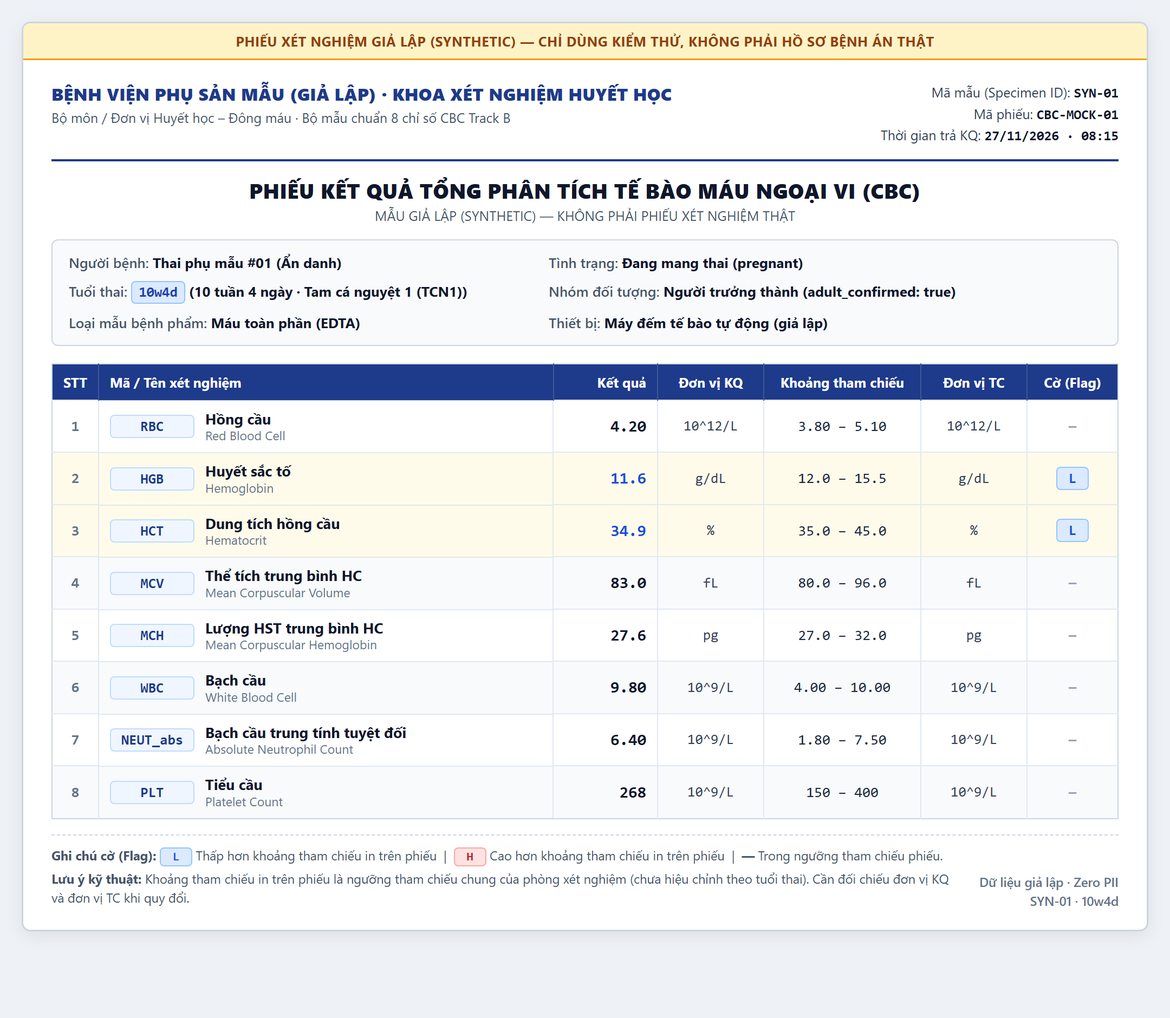
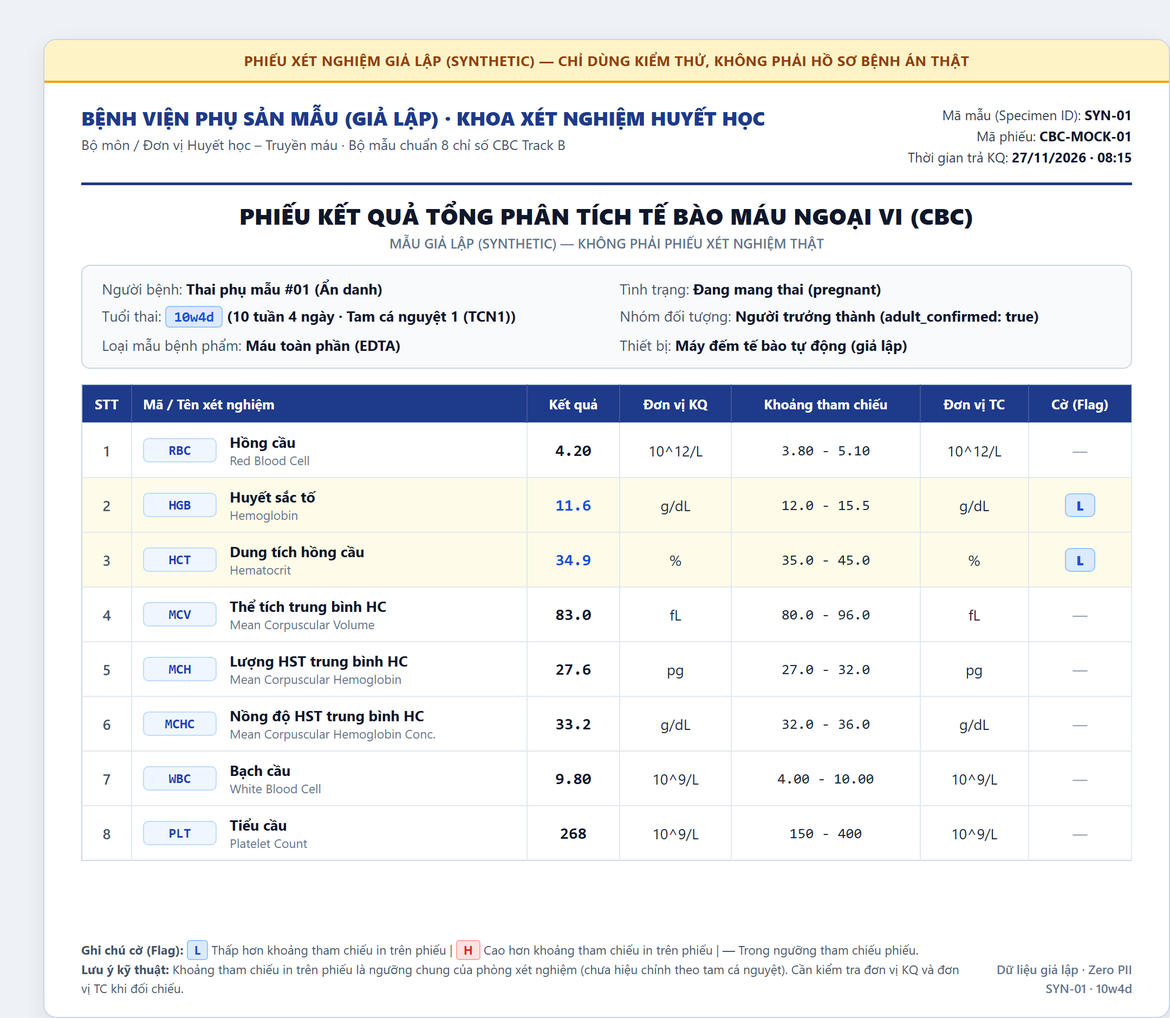
Sync N1 docs, synthetic CBC slips, and candidate cases with 8-analyte main

diff --git a/starter-repo/spec.md b/starter-repo/spec.md
@@ -3,36 +3,36 @@
 > Mốc nộp: §7 chốt chuẩn "đạt" tại **CP2 19:30 Thứ Sáu 27/11** · §0–§7 nộp **CP3 10:00 Thứ Bảy 28/11** · đủ §0–§10 **CP4 14:30 Thứ Bảy 28/11** · §10 changelog ghi tiếp đến **23:59 Thứ Bảy 28/11**.
 > Đầu mỗi mục ghi bước guide (`02-guide.md` trong repo đề) chỉ cách điền. Mỗi mục ngắn, có số và nguồn; chi tiết để ở file được trỏ tới. Xoá dòng hướng dẫn trong ngoặc vuông khi điền xong.
 
-Track: [ ] A · [x] B · [ ] C · [ ] D · [ ] E — bài toán: Hỗ trợ thai phụ Việt Nam (TCN1–3) tự đọc và chuẩn bị câu hỏi cho bác sĩ từ phiếu kết quả 8 chỉ số CBC (`RBC`, `HGB`, `HCT`, `MCV`, `MCH`, `WBC`, `NEUT_abs`, `PLT`)
+Track: [ ] A · [x] B · [ ] C · [ ] D · [ ] E — bài toán: Hỗ trợ thai phụ Việt Nam trưởng thành (TCN1–3) tự đọc hiểu và chuẩn bị câu hỏi cho bác sĩ từ phiếu kết quả 8 chỉ số CBC trọng tâm (`HGB`, `RBC`, `HCT`, `MCV`, `MCH`, `MCHC`, `WBC`, `PLT`)
 Data BTC cấp đã dùng (nếu có — không commit nguyên file): Không dùng data BTC cấp; nhóm dùng số liệu công bố *Pham et al. (2023)* tại BV Hùng Vương (workbook `.xlsx` gốc giữ ngoài repo công khai), hướng dẫn WHO (2024), BV Từ Dũ và MedlinePlus.
 
 ## §0. Hiện tại việc này diễn ra thế nào *(guide 1.1)*
 - Luồng hiện tại của việc này, tại phòng khám hoặc khi tự xem phiếu (4 bước):
   1. Thai phụ lấy máu xét nghiệm tổng phân tích tế bào máu (CBC) trong lịch khám thai định kỳ (từ TCN1 theo lịch BV Từ Dũ, trung bình 8–12 lần khám cả thai kỳ).
   2. Phòng xét nghiệm trả phiếu giấy hoặc kết quả điện tử, trong đó nhiều máy tự động in sẵn khoảng tham chiếu của người trưởng thành không mang thai (`HGB 12.0–15.5 g/dL`, `WBC 4.0–10.0 × 10^9/L`) và đánh dấu `L`/`H` hoặc in đậm các chỉ số lệch khỏi khoảng đó.
-  3. Khi chưa kịp hỏi bác sĩ hoặc mang phiếu về nhà xem lại, thai phụ gặp các ký hiệu viết tắt tiếng Anh (`HGB`, `HCT`, `MCV`, `NEUT#`, `PLT`) cùng đơn vị khác nhau (`g/L` vs `g/dL`, `%` vs `L/L`), nên tự tìm kiếm trên Google, hỏi trong hội nhóm thai kỳ hoặc nhắn người quen để đoán mức độ nghiêm trọng.
+  3. Khi chưa kịp hỏi bác sĩ hoặc mang phiếu về nhà xem lại, thai phụ gặp các ký hiệu viết tắt tiếng Anh (`HGB`, `HCT`, `MCV`, `MCH`, `MCHC`, `WBC`, `PLT`) cùng đơn vị khác nhau (`g/L` vs `g/dL`, `%` vs `L/L`), nên tự tìm kiếm trên Google, hỏi trong hội nhóm thai kỳ hoặc nhắn người quen để đoán mức độ nghiêm trọng.
   4. Thai phụ chờ 1–4 tuần tới buổi tái khám tiếp theo mới hỏi bác sĩ, nhưng thường quên chi tiết muốn hỏi hoặc đã tự mua thêm viên sắt bổ sung.
 - Công cụ / AI đang được dùng cho việc này (nếu có) + nguồn: Máy xét nghiệm in sẵn khoảng tham chiếu người không mang thai (nêu trong *Pham et al., 2023* và *MedlinePlus* về rủi ro tự dùng khoảng tham chiếu khác phòng lab/đối tượng); công cụ tra cứu phổ biến là Google Search, hội nhóm mạng xã hội, hỏi đáp công khai; thói quen cụ thể của từng thai phụ `[Chờ xác nhận qua phỏng vấn P1–P3]`.
 
 ## §1. Người dùng & bằng chứng *(guide 1.1, 1.2)*
-- Người dùng chính (một vai cụ thể): Thai phụ Việt Nam trưởng thành (15–65 tuổi, mang thai ở tam cá nguyệt 1, 2 hoặc 3) tự đọc phiếu kết quả 8 chỉ số CBC trước hoặc sau buổi khám thai định kỳ.
+- Người dùng chính (một vai cụ thể): Thai phụ Việt Nam trưởng thành (mang thai ở tam cá nguyệt 1, 2 hoặc 3) tự đọc phiếu kết quả CBC trước hoặc sau buổi khám thai định kỳ.
 - Việc họ cố làm xong (`động từ + đối tượng + bối cảnh`, không có chữ AI): Đọc hiểu ý nghĩa các chỉ số và dấu bất thường trên phiếu tổng phân tích tế bào máu (CBC) theo đúng tuần thai để chuẩn bị câu hỏi trao đổi với bác sĩ sản khoa.
 - Hôm nay họ giải bằng gì, hỏng ở đâu, vì sao chưa bỏ: Tự tra Google từng chỉ số riêng lẻ, hỏi hội nhóm mẹ bầu hoặc chờ đến buổi tái khám tiếp theo. Cách này hỏng ở chỗ: kết quả tìm kiếm thường dùng khoảng tham chiếu của người không mang thai hoặc lệch đơn vị `g/L` so với `g/dL`, không phân biệt thay đổi sinh lý thai kỳ với ngưỡng cần khám, và dễ nhận lời khuyên tự ý tăng liều sắt. Họ chưa bỏ vì chưa có tài liệu đối chiếu nhanh theo từng tam cá nguyệt ngay tại thời điểm cầm phiếu, trong khi lịch khám định kỳ cách nhau 1–4 tuần.
-- Pain (KHÔNG chữ AI): Thai phụ Việt Nam ở tam cá nguyệt 1–3 khi tự đọc phiếu 8 chỉ số CBC thường thấy các chỉ số như `HGB`, `HCT`, `WBC`, `NEUT_abs` hoặc `PLT` bị đánh dấu bất thường do phiếu in khoảng tham chiếu người không mang thai và thiếu giải thích đơn vị theo tuần thai, khiến họ hoang mang, tốn thời gian tra cứu rời rạc và dễ tự bổ sung sắt sai hoặc bỏ sót câu hỏi cần trao đổi với bác sĩ sản khoa.
+- Pain (KHÔNG chữ AI): Thai phụ Việt Nam ở tam cá nguyệt 1–3 khi tự đọc phiếu 8 chỉ số CBC thường thấy các chỉ số như `HGB`, `HCT`, `MCV`, `MCHC`, `WBC` hoặc `PLT` bị đánh dấu bất thường do phiếu in khoảng tham chiếu người không mang thai và thiếu giải thích đơn vị theo tuần thai, khiến họ hoang mang, tốn thời gian tra cứu rời rạc và dễ tự bổ sung sắt sai hoặc bỏ sót câu hỏi cần trao đổi với bác sĩ sản khoa.
 - Bằng chứng — số chính + kết luận (chi tiết: `evidence/summary.md`): Đào dữ liệu nghiên cứu BV Hùng Vương (*Pham et al., 2023*, `N = 837` panel CBC đủ) cho thấy **`416/837 (49.70%)`** thai phụ khỏe mạnh có `HGB < 12.0 g/dL` (bị gắn cờ thiếu máu sai nếu dùng ngưỡng nữ không mang thai) và **`95/837 (11.35%)`** nằm dưới ngưỡng sàng lọc thai kỳ WHO 2024 (`22/287 = 7.67%` TCN1, `28/273 = 10.26%` TCN2, `45/277 = 16.25%` TCN3) dù phần lớn thuộc khoảng sinh lý 2.5th–97.5th. Phần phỏng vấn người dùng `P1–P3` và kết luận cuối hiện ở trạng thái `[Chờ phỏng vấn P1–P3]`.
 
 ## §2. Impact & quyết định chọn *(guide 1.3)*
 
 | Hướng | Bao nhiêu người gặp | Bao nhiêu lần / tháng | Mỗi lần tốn gì | Impact / tháng | Làm kịp không | Chọn? |
 |---|---|---|---|---|---|---|
-| **Hướng B · 8 chỉ số CBC thai kỳ (TCN1–3) + cổng từ chối ngoài phạm vi** | `49.70%` (`416/837`) thai phụ khỏe có `HGB < 12.0 g/dL` (*Pham et al. 2023*); ước tính `~100.000` thai phụ tự đọc phiếu/tháng *(tự ước tính)* | `1.5` lần/tháng *(tự ước tính từ lịch khám Từ Dũ 8–12 lần/9 tháng)* | `15` phút/lần tra cứu + lo lắng oan *(tự ước tính; chờ kiểm qua P1–P3)* | `2.250.000` phút/tháng (~`37.500` giờ/tháng) *(tự ước tính)* | Kịp (Workflow cố định + bảng tra 24 ô; N2 đang nâng từ 3 lên 8 chỉ số) | **Chọn** |
-| **Hướng A · 8 chỉ số CBC người lớn không mang thai (từ chối thai kỳ)** | Nhóm khám tổng quát không mang thai *(thiếu bộ dữ liệu RI Việt Nam chuẩn trên DxH 900)* | `0.3` lần/tháng *(tự ước tính)* | `10` phút/lần *(tự ước tính)* | Không định lượng được từ dữ liệu bệnh viện đã có | Kịp nhưng yếu bằng chứng R1/R4 | **Loại** |
-| **Hướng C · Đủ 24 chỉ số CBC + đông máu (`PT, APTT, FIB`) + OCR tự động** | Thai phụ làm xét nghiệm mở rộng / tiền phẫu | `0.5` lần/tháng *(tự ước tính)* | `20` phút/lần *(tự ước tính)* | Rủi ro đọc sai OCR và sai diễn giải đông máu cao | Không kịp trong 10h | **Loại** |
+| **Hướng B · Giải thích 8 chỉ số CBC thai kỳ (TCN1–3, chế độ `lab`/`study`) + cổng từ chối ngoài phạm vi** *(danh mục nền đối chiếu tới 24 mã)* | `49.70%` (`416/837`) thai phụ khỏe có `HGB < 12.0 g/dL` (*Pham et al. 2023*); ước tính `~100.000` thai phụ tự đọc phiếu/tháng *(tự ước tính)* | `1.5` lần/tháng *(tự ước tính từ lịch khám Từ Dũ 8–12 lần/9 tháng)* | `15` phút/lần tra cứu + lo lắng oan *(tự ước tính; chờ kiểm qua P1–P3)* | `2.250.000` phút/tháng (~`37.500` giờ/tháng) *(tự ước tính)* | Kịp (Workflow cố định + bảng `reference_data.py` + bước xác nhận phiếu) | **Chọn** |
+| **Hướng A · Giải thích CBC cho người lớn không mang thai (từ chối thai kỳ)** | Nhóm khám tổng quát không mang thai *(thiếu bộ dữ liệu RI Việt Nam chuẩn trên DxH 900)* | `0.3` lần/tháng *(tự ước tính)* | `10` phút/lần *(tự ước tính)* | Không định lượng được từ dữ liệu bệnh viện đã có | Kịp nhưng yếu bằng chứng R1/R4 | **Loại** |
+| **Hướng C · Tự động chẩn đoán nguyên nhân bệnh lý & tư vấn liều sắt/thuốc từ ảnh phiếu không qua xác nhận** | Thai phụ có chỉ số lệch muốn hỏi thuốc uống ngay | `0.5` lần/tháng *(tự ước tính)* | `20` phút/lần *(tự ước tính)* | Rủi ro đọc sai ảnh chưa xác nhận và sai lệch điều trị y khoa rất cao | Không an toàn / ngoài thẩm quyền Track B | **Loại** |
 
 - **Impact / tháng** của hướng chọn = `100.000` người *(tự ước tính quy mô thai phụ tự xem phiếu toàn quốc)* × `1.5` lần/tháng *(tự ước tính theo lịch khám thai định kỳ BV Từ Dũ 8–12 lần/thai kỳ)* × `15` phút/lần *(tự ước tính, chờ đối chiếu số phút thật sau phỏng vấn P1–P3)* = **`2.250.000` phút/tháng** (tương đương `22.5` phút/người/tháng; tỷ lệ nền `416/837 = 49.70%` thai phụ khỏe có `HGB < 12.0 g/dL` lấy từ nguồn *Pham et al., 2023*).
 - Hướng ĐÃ LOẠI + vì sao (giữ lại, đừng xoá):
   - **Hướng A (người trưởng thành không mang thai):** Loại vì không có sẵn dữ liệu RI chuẩn người Việt trên máy DxH 900 cho người không mang thai và bỏ qua đúng nút thắt lớn nhất của bộ dữ liệu BV Hùng Vương (`49.70%` sai ngưỡng thai kỳ); tuy nhiên vẫn giữ toàn bộ cổng kiểm tra ngữ cảnh và từ chối ngoài phạm vi của Hướng A đưa vào Hướng B.
-  - **Hướng C (đủ 24 chỉ số + đông máu + OCR không qua xác nhận):** Loại vì phạm vi đông máu (`PT, APTT, FIB`) có 3 bản ghi bán phần và gắn với quyết định tiền phẫu/sản khoa phức tạp vượt quá mục tiêu tự đọc phiếu trong 10 giờ, đồng thời OCR tự động không xác nhận dễ gây sai số thập phân/đơn vị.
+  - **Hướng C (tự động chẩn đoán bệnh lý & kê liều sắt/thuốc không qua xác nhận):** Loại vì chỉ từ CBC không thể chẩn đoán xác định thiếu sắt hay Thalassemia và việc gợi ý thuốc/liều uống vi phạm quy tắc an toàn Track B, đồng thời đọc ảnh không qua bước người dùng kiểm nhận dễ sai số thập phân hoặc đơn vị.
 - Số lần / tháng của từng kiểu người dùng (dùng cho persona ở §8):
   - Thai phụ khám thai định kỳ tự xem phiếu CBC cơ bản (TCN1–3): `1–2 lần/tháng` *(tự ước tính theo lịch BV Từ Dũ, chờ kiểm qua P1–P3)*.
   - Thai phụ theo dõi thiếu máu / sát biên WHO (được hẹn xét nghiệm lại): `2–4 lần/tháng` *(tự ước tính)*.

diff --git a/starter-repo/docs/n1-handoff.md b/starter-repo/docs/n1-handoff.md
@@ -1,50 +1,36 @@
-# N1 Handoff Summary — Đào Ngọc Hân (`2A202603779`, Track B)
+# N1 Handoff Summary (v1.1 — Đồng bộ `main` `62104b5`) — Đào Ngọc Hân (`2A202603779`, Track B)
 
-> Tài liệu bàn giao cho **N2 (Nguyễn Gia Nam)**, **N3 (Thiều Thế Ngọc)** và **N4 (Trần Trọng Đức Tài)** tại các mốc **CP1–CP3**, tổng hợp toàn bộ đầu ra N1 có thể hoàn thành ngoại tuyến trên máy cục bộ và các phần đang bị chặn do thiếu dữ liệu bên ngoài.
+> Tài liệu bàn giao đã đồng bộ với bản `main` mới nhất (PR #1 `feat/evaluation-cost`, PR #2 `codex/trimester-reference-intervals`, PR #3 `codex/cbc-explanation-polish`) cho **N2 (Nguyễn Gia Nam)**, **N3** và **N4** tại các mốc **CP1–CP3**.
 
 ---
 
-## 1. Danh mục đầu ra CP1–CP3 do N1 đã hoàn thành
+## 1. Danh mục đầu ra CP1–CP3 do N1 đã hoàn thành & đồng bộ
 
 | Mốc | Tệp trong `starter-repo/` | Nội dung chính |
 |---|---|---|
 | **CP1** | `evidence/hypothesis.md` | Giả thuyết ban đầu (không chứa "AI"), giải thích thay thế, ngưỡng định lượng kiểm chứng (`≥30%` gắn cờ sai, `≥2/3` phỏng vấn), nguồn sẽ kiểm. |
-| **CP1** | `canvas.md` | Đủ 7 dòng bản đầu (`4thangtay · Track B`); dòng 3 pain 1 câu không chữ "AI"; dòng 5 lát cắt đúng 1 câu (`1 người dùng · 1 việc · 1 quyết định AI · 1 kết quả`); dòng CP2 để `[Chờ cập nhật tại CP2]`. |
+| **CP1** | `canvas.md` | Đủ 7 dòng bản đầu (`4thangtay · Track B`) theo danh mục 8 chỉ số chuẩn (`HGB, RBC, HCT, MCV, MCH, MCHC, WBC, PLT`); pain không chữ "AI"; lát cắt đúng 1 câu; dòng CP2 để `[Chờ cập nhật tại CP2]`. |
 | **CP1** | `evidence/interviews/PLAN.md`, `P1.md`–`P3.md` | Kế hoạch & bộ 7 câu hỏi Mom Test dành cho thai phụ từng đọc phiếu CBC trong 1 tháng qua (hỏi thời gian đọc/lần, cách xoay xở, cấm thu ảnh phiếu thật/PII); các phiếu `P1`–`P3` giữ trống chờ phỏng vấn thật. |
-| **CP2** | `data/DATA_CARD.md` | Khai báo Dataset 1 (*Pham et al. 2023*, `867` bản ghi → `837` CBC, BV Hùng Vương, DOI URL, `.xlsx` gốc ngoài repo; kèm WHO 2024, Từ Dũ, MedlinePlus), Dataset 2 (`3` phiếu giả lập gắn nhãn `synthetic`, cách sinh & kiểm 24/24 dòng) và quy tắc No-PII. |
-| **CP3** | `evidence/data-mining.md` | Công thức & mẫu số (`N = 837`), số liệu kiểm chứng (`416/837 = 49.70%` dưới `12.0 g/dL`; `95/837 = 11.35%` dưới WHO 2024; `0` ngoại lai ở 8 chỉ số chọn), 5 ví dụ ẩn danh (`RI0601`, `P0756`, `RI0114`, `RI0335`, `RI0205`), và khai báo `.xlsx` gốc giữ ngoài repo. |
-| **CP3** | `evidence/summary.md` | Khung tổng hợp bằng chứng + bảng lịch hẹn `P1–P3`; phần số đào data đã điền đủ, phần phỏng vấn thật & trích dẫn người dùng giữ `[Chờ phỏng vấn P1–P3]` (không bịa dữ liệu). |
-| **CP3** | `spec.md` (`header` + `§0–§2`) | Luồng hiện tại 4 bước, JTBD & Pain không chữ "AI", bảng 3 hướng (`Hướng B` chọn, giữ nguyên `Hướng A` & `Hướng C` bị loại kèm lý do), công thức `Impact / tháng` có nguồn hoặc `*(tự ước tính)*`. **Giữ nguyên hoàn toàn `§4` và `§5–§10`.** |
-| **CP3** | `eval/n1-candidate-cases.csv` | 10 tình huống ứng viên ẩn danh (đủ 6 cột chuẩn `benchmark.csv`) phủ đủ 8 chỉ số CBC để N3 chọn ghép vào `eval/benchmark.csv`. |
+| **CP2** | `data/DATA_CARD.md` | Khai báo Dataset 1 (*Pham et al. 2023*, `867` bản ghi → `837` CBC, BV Hùng Vương, DOI URL, `.xlsx` gốc ngoài repo; kèm WHO 2024, Từ Dũ, MedlinePlus), Dataset 2 (`3` phiếu giả lập `2160×1880` gắn nhãn `synthetic`, khớp 100% `SUPPORTED_ANALYTES`) và quy tắc No-PII. |
+| **CP3** | `evidence/data-mining.md` | Công thức & mẫu số (`N = 837`), số liệu kiểm chứng (`416/837 = 49.70%` dưới `12.0 g/dL`; `95/837 = 11.35%` dưới WHO 2024; `0/837` ngoại lai ở 8 chỉ số chọn), 5 ví dụ ẩn danh (`RI0601`, `P0756`, `RI0114`, `RI0335`, `RI0205`), và khai báo `.xlsx` gốc giữ ngoài repo. |
+| **CP3** | `evidence/summary.md` | Khung tổng hợp bằng chứng + bảng lịch hẹn `P1–P3`; phần số đào data đã điền đủ, phần phỏng vấn thật & trích dẫn người dùng giữ `[Chờ phỏng vấn P1–P3]`. |
+| **CP3** | `spec.md` (`header` + `§0–§2`) | Luồng hiện tại 4 bước, JTBD & Pain không chữ "AI", bảng 3 hướng (`Hướng B` chọn, giữ `Hướng A` & `Hướng C` bị loại kèm lý do, khớp hoàn toàn với `§4` trên `main`), công thức `Impact / tháng` có nguồn hoặc `*(tự ước tính)*`. |
+| **CP3** | `eval/n1-candidate-cases.csv` | 10 tình huống ứng viên ẩn danh (`N1_C01`–`N1_C10`, đủ 6 cột chuẩn `benchmark.csv`) phủ đủ 8 chỉ số `SUPPORTED_ANALYTES` + cả 2 chế độ `study` và `lab`, chạy thông 100% qua `codebase.agent.answer()`. |
 
 ---
 
 ## 2. Bộ 3 phiếu CBC giả lập + JSON đáp án (cho N2 & N4)
 
-Các tệp đặt trong `starter-repo/data/` (tương thích cấu trúc `data/cbc-demo-input.json`, gắn watermark `"MẪU GIẢ LẬP (SYNTHETIC) — KHÔNG PHẢI PHIẾU XÉT NGHIỆM THẬT"`):
+Các tệp đặt trong `starter-repo/data/` (phủ đúng 8 mã `RBC, HGB, HCT, MCV, MCH, MCHC, WBC, PLT` trong `SUPPORTED_ANALYTES` & `ANALYTE_EXPLANATIONS`, gắn watermark `"MẪU GIẢ LẬP (SYNTHETIC) — KHÔNG PHẢI PHIẾU XÉT NGHIỆM THẬT"`):
 
-1. **`starter-repo/data/cbc-mock-01-tcn1-normal.png` + `.json`** — Thai kỳ TCN1 (`10w4d`, `pregnant`, `adult_confirmed: true`), 8 chỉ số bình thường theo RI TCN1 BV Hùng Vương (`HGB 11.6 g/dL` nhưng bị đánh dấu L nếu so khoảng người lớn `12.0–15.5 g/dL`).
-2. **`starter-repo/data/cbc-mock-02-tcn2-borderline-unitmix.png` + `.json`** — Thai kỳ TCN2 (`24w2d`), cố ý trộn đơn vị **`HGB 104 g/L`** vs khoảng tham chiếu **`12.0–15.5 g/dL`** (lệch 10×, sát biên WHO 2024 `< 105 g/L` nhưng trong RI TCN2 `9.71–13.17 g/dL`), kèm tăng bạch cầu sinh lý (`WBC 12.8 10^9/L`, `NEUT_abs 8.9 10^9/L`).
-3. **`starter-repo/data/cbc-mock-03-tcn3-microcytic-plt.png` + `.json`** — Thai kỳ TCN3 (`33w1d`), `HGB 10.1 g/dL`, hồng cầu nhỏ nhược sắc (`MCV 75.8 fL`, `MCH 24.4 pg`) và giảm tiểu cầu nhẹ (`PLT 138 10^9/L < 150`).
-
-### Lưu ý đồng bộ quan trọng cho N2 (`codebase/tools.py` & `spec.md §4`)
-- Hiện tại `starter-repo/codebase/tools.py` (`ANALYTES` dòng 12, kiểm tra `1 <= len(raw_rows) <= 3` dòng 65) và `spec.md §4` mới hỗ trợ **3 chỉ số** (`HGB`, `WBC`, `PLT`), trong khi yêu cầu đề tài và 3 bộ phiếu giả lập trên phủ đủ **8 chỉ số** (`RBC`, `HGB`, `HCT`, `MCV`, `MCH`, `WBC`, `NEUT_abs`, `PLT`).
-- **Cách phối hợp:**
-  - Nếu giữ phạm vi **3 chỉ số** ở bản chạy thử CP2: N2/N4 chỉ cần lọc lấy 3 dòng `{HGB, WBC, PLT}` từ `report.rows` của các file `cbc-mock-01..03*.json` để đưa vào `compare_cbc()`.
-  - Nếu nâng cấp lên **8 chỉ số** trước CP3: N2 mở rộng `ANALYTES`, bảng đơn vị (`RBC`, `HCT %/L`, `MCV fL`, `MCH pg`, `NEUT_abs`), bỏ giới hạn `<= 3` dòng trong `tools.py`, và cập nhật `spec.md §4` (cùng `tests/test_cbc_ai.py`).
+1. **`starter-repo/data/cbc-mock-01-tcn1-normal.png` + `.json`** — Thai kỳ TCN1 (`10w4d`, `pregnant`, `adult_confirmed: true`), 8 chỉ số bình thường theo RI TCN1 BV Hùng Vương (`HGB 11.6 g/dL`, `HCT 34.9%`, `MCHC 33.2 g/dL` nhưng `HGB/HCT` có cờ `L` nếu so khoảng người lớn không mang thai `12.0–15.5 g/dL` / `35.0–45.0%`).
+2. **`starter-repo/data/cbc-mock-02-tcn2-borderline-unitmix.png` + `.json`** — Thai kỳ TCN2 (`24w2d`), trộn đơn vị **`HGB 104 g/L`** vs khoảng tham chiếu **`12.0–15.5 g/dL`** (quy đổi thành `10.4 g/dL`), kèm `MCHC 33.0 g/dL` và tăng bạch cầu sinh lý (`WBC 12.8 10^9/L`).
+3. **`starter-repo/data/cbc-mock-03-tcn3-microcytic-plt.png` + `.json`** — Thai kỳ TCN3 (`33w1d`), `HGB 10.1 g/dL`, hồng cầu nhỏ (`MCV 75.8 fL`, `MCH 24.4 pg`), `MCHC 32.2 g/dL` và giảm tiểu cầu nhẹ (`PLT 138 10^9/L < 150`).
 
 ---
 
-## 3. Bộ 10 câu hỏi ứng viên cho N3 (`eval/n1-candidate-cases.csv`)
+## 3. Các phần còn chờ dữ liệu bên ngoài (tiếp tục ở CP2–CP4)
 
-- **Tệp bàn giao:** `starter-repo/eval/n1-candidate-cases.csv` (10 dòng `N1_C01`–`N1_C10`, giữ nguyên cấu trúc 6 cột `id,input,expected,pass_criterion,type,source` của `eval/benchmark.csv`).
-- **Phân bổ:** `2 thuong`, `6 kho`, `2 tu_choi` (đều là kịch bản tấn công/ngoài phạm vi); nguồn gồm `2 data_that` (ẩn danh từ *Pham et al. 2023*), `3 sinh_seed` (khớp 3 phiếu `cbc-mock-01..03`), `5 tu_viet` (trong đó 2 ca lỗi thiếu đơn vị/mâu thuẫn có ghi `[Chờ gắn nguoi_dung: P_ sau phỏng vấn]`).
-- **Lưu ý cho N3:** `eval/benchmark.csv` và `eval/metric_spec.yaml` được N1 giữ nguyên để N3 chủ động hợp nhất, bổ sung đủ `20–30` câu (đảm bảo `≥ 1/3` nguồn từ `nguoi_dung` / `data_that` sau khi có `P1–P3`), điền `≥ 3` metrics và **khóa trước 19:30 Thứ Sáu 27/11 (CP2)**.
-
----
-
-## 4. Các phần đang bị chặn bởi yếu tố bên ngoài (chưa thể hoàn tất cục bộ)
-
-1. **Workbook Excel gốc (*Pham et al., 2023*):** File `.xlsx` (`Huong_dan`, `Du_lieu`, `Tu_dien`) được giữ ngoài repo công khai nên chưa chạy lại trực tiếp được đoạn script đếm trong `evidence/data-mining.md` trên máy này; mọi số liệu đã trích dẫn nguyên trạng từ `docs/NGHIEN_CUU_VA_DE_XUAT_DE_TAI_TRACK_B.md`.
-2. **Phỏng vấn người dùng thật (`P1`–`P3`):** Chưa có cuộc phỏng vấn thực tế với 3 thai phụ ngoài nhóm nên các ô kết quả, thời gian đọc phiếu (phút), tần suất/tháng, 5 trích dẫn nguyên văn từ người dùng, phần đối chiếu khớp/lệch và kết luận cuối trong `evidence/summary.md` và `evidence/interviews/P1.md`–`P3.md` buộc phải giữ `[Chờ phỏng vấn P1–P3]`, đồng thời các thừa số thời gian/quy mô trong `spec.md §2` đang ghi rõ `*(tự ước tính)*`.
-3. **Chấm chéo & hoàn thiện liên vai trò:** Chấm chéo 5 output mẫu cùng N3 (`≥ 4/5`), cập nhật ô CP2 trong `canvas.md`, hoàn thiện `TEAMS.md` cho N3/N4, mở rộng/đồng bộ `codebase/tools.py` (3 vs 8 chỉ số) và tích hợp UI đọc/xác nhận phiếu cho N4.
+1. **Phỏng vấn người dùng thật (`P1`–`P3`):** Điền biên bản vào `evidence/interviews/P1.md`–`P3.md`, cập nhật các ô `[Chờ phỏng vấn P1–P3]` trong `evidence/summary.md`, dòng thay đổi CP2 trong `canvas.md`, và bổ sung tối thiểu 8 câu nói ẩn danh từ người dùng cuối (`nguoi_dung: P1..P3`) cho N3 cập nhật nguồn `eval/benchmark.csv`.
+2. **Điền vai N3/N4 vào `TEAMS.md`:** Cập nhật cột `Phần việc chính` của Thiều Thế Ngọc và Trần Trọng Đức Tài khi hai bạn chốt vai.
+3. **Chấm chéo & Bonus:** Chấm chéo 5 đầu ra mẫu cùng N3 (`≥ 4/5`) trước CP2; ghi `validation/log.md` (nếu có người dùng thử ở CP4) và `reflection/dao-ngoc-han.md` trước `23:59` Thứ Bảy 28/11.

diff --git a/starter-repo/canvas.md b/starter-repo/canvas.md
@@ -6,11 +6,11 @@
 
 | # | Dòng | Nhóm điền |
 |---|---|---|
-| 1 | Track + lát cắt dự kiến | Track B (Y tế) · Trợ lý giải thích 8 chỉ số CBC cốt lõi (`RBC`, `HGB`, `HCT`, `MCV`, `MCH`, `WBC`, `NEUT_abs`, `PLT`) cho thai phụ Việt Nam theo tam cá nguyệt 1, 2 và 3. |
-| 2 | Người dùng chính (một vai cụ thể — không phải "học viên nói chung") | Thai phụ Việt Nam trưởng thành (15–65 tuổi, mang thai ở tam cá nguyệt 1, 2 hoặc 3) tự đọc phiếu kết quả 8 chỉ số CBC trước hoặc sau buổi khám thai định kỳ. |
-| 3 | Pain một câu: ai — đang làm gì — vướng đâu — hậu quả | Thai phụ Việt Nam ở tam cá nguyệt 1–3 khi tự đọc phiếu xét nghiệm 8 chỉ số CBC thường thấy các chỉ số như HGB, HCT, WBC, NEUT_abs hoặc PLT bị đánh dấu bất thường do phiếu in khoảng tham chiếu người trưởng thành không mang thai và thiếu giải thích đơn vị theo tuần thai, khiến họ lo lắng oan, tốn thời gian tra cứu rời rạc và dễ tự bổ sung sắt sai hoặc không chuẩn bị được câu hỏi đúng cho bác sĩ sản khoa. |
+| 1 | Track + lát cắt dự kiến | Track B (Y tế) · Trợ lý giải thích 8 chỉ số CBC cốt lõi (`HGB`, `RBC`, `HCT`, `MCV`, `MCH`, `MCHC`, `WBC`, `PLT`) cho thai phụ Việt Nam trưởng thành theo tam cá nguyệt 1, 2 và 3. |
+| 2 | Người dùng chính (một vai cụ thể — không phải "học viên nói chung") | Thai phụ Việt Nam trưởng thành (mang thai ở tam cá nguyệt 1, 2 hoặc 3) tự đọc phiếu kết quả 8 chỉ số CBC trước hoặc sau buổi khám thai định kỳ. |
+| 3 | Pain một câu: ai — đang làm gì — vướng đâu — hậu quả | Thai phụ Việt Nam ở tam cá nguyệt 1–3 khi tự đọc phiếu xét nghiệm 8 chỉ số CBC thường thấy các chỉ số như HGB, HCT, MCV, MCHC, WBC hoặc PLT bị đánh dấu bất thường do phiếu in khoảng tham chiếu người trưởng thành không mang thai và khác biệt đơn vị theo tuần thai, khiến họ lo lắng oan, tốn thời gian tra cứu rời rạc và dễ tự bổ sung sắt sai hoặc không chuẩn bị được câu hỏi đúng cho bác sĩ sản khoa. |
 | 4 | Bằng chứng đầu — CP1: giả thuyết + nguồn sẽ kiểm · CP2: số đầu tiên + 1 trích dẫn | CP1: Giả thuyết ≥30% thai phụ khỏe mạnh bị gắn cờ sai khi áp ngưỡng HGB nữ không mang thai và ≥2/3 thai phụ phỏng vấn kể được lần vướng khi đọc phiếu CBC trong 1 tháng qua; nguồn kiểm gồm đào dữ liệu 867 bản ghi BV Hùng Vương (*Pham et al., 2023*) và phỏng vấn `P1`–`P3` (`evidence/hypothesis.md`). CP2: [Chờ cập nhật số đầu tiên và 1 trích dẫn thật tại CP2]. |
-| 5 | **Lát cắt MỘT CÂU** (1 người dùng · 1 việc · 1 quyết định AI · 1 kết quả) | Một thai phụ Việt Nam đang tự đọc phiếu kết quả 8 chỉ số CBC theo tuần thai ở tam cá nguyệt 1–3 nhận bản đối chiếu 3 tầng theo quy tắc và AI quyết định diễn giải chỉ số nào thay đổi sinh lý hay cần lưu ý kèm câu hỏi làm rõ khi thiếu ngữ cảnh để người dùng có bản giải thích dễ hiểu có dẫn nguồn cùng 2–3 câu hỏi cụ thể mang trao đổi với bác sĩ sản khoa. |
-| 6 | AI tự làm đến đâu + 1 dòng lý do: sai thì ai chịu gì | AI gợi ý, người dùng quyết định (Workflow cố định: quy tắc xác định kiểm tra ngữ cảnh, đổi đơn vị và đối chiếu 3 tầng trước khi AI chỉ diễn giải dựa trên dữ liệu đã xác nhận; AI không chẩn đoán hay kê đơn thuốc/liều sắt). Nếu AI nói sai ngưỡng hoặc tự kê liều sắt thì thai phụ có thể hoang mang, tự dùng thuốc sai hoặc chậm đi khám khi có cờ đỏ, nên mọi quyết định y khoa thuộc về bác sĩ sản khoa. |
+| 5 | **Lát cắt MỘT CÂU** (1 người dùng · 1 việc · 1 quyết định AI · 1 kết quả) | Một thai phụ Việt Nam trưởng thành xác nhận phiếu kết quả CBC theo tuần thai ở tam cá nguyệt 1–3, công cụ quy tắc đối chiếu với khoảng trên phiếu hoặc khoảng nghiên cứu theo tam cá nguyệt rồi AI chọn dòng liên quan để giải thích ý nghĩa chỉ số bằng tiếng Việt có dẫn nguồn và gợi ý câu hỏi trao đổi với bác sĩ sản khoa. |
+| 6 | AI tự làm đến đâu + 1 dòng lý do: sai thì ai chịu gì | AI gợi ý, người dùng quyết định (Workflow cố định: hàm xác định kiểm tra ngữ cảnh, đổi đơn vị và đối chiếu khoảng tham chiếu trước khi AI chọn dòng/nhánh trả lời dựa trên dữ liệu đã xác nhận; AI không chẩn đoán hay kê đơn thuốc/liều sắt). Nếu AI nói sai ngưỡng hoặc tự kê liều sắt thì thai phụ có thể hoang mang, tự dùng thuốc sai hoặc chậm đi khám khi có tình huống khẩn, nên mọi quyết định y khoa thuộc về bác sĩ sản khoa. |
 | 7 | Phân công có tên | Nguyễn Gia Nam (N2 · AI Engineer: workflow AI, `tools.py`, STT/TTS, `spec.md §4`) · Đào Ngọc Hân (N1 · Product & Data: `evidence/`, `canvas.md`, `DATA_CARD.md`, phiếu giả lập, `spec.md §0–§2`) · Thiều Thế Ngọc (N3 · Eval/Cost: chuẩn hóa `benchmark.csv`, `metric_spec.yaml`, chạy eval/cost) · Trần Trọng Đức Tài (N4 · UI/Demo: giao diện, slide, demo) — chi tiết phân công xem `TEAMS.md`. |
 | — | *(CP2)* Đã đổi gì so với CP1 | [Chờ cập nhật tại CP2] |

diff --git a/starter-repo/data/DATA_CARD.md b/starter-repo/data/DATA_CARD.md
@@ -21,12 +21,12 @@
 | | |
 |---|---|
 | Dùng để làm gì | Đầu vào kiểm thử đọc/hiển thị phiếu và JSON đáp án cho N2 (`codebase/`) và N4 (UI/demo); **không dùng làm bằng chứng pain**. |
-| Từ đâu | Nhóm tự sinh (`synthetic`) trong `starter-repo/data/` tương thích cấu trúc `data/cbc-demo-input.json`: `cbc-mock-01-tcn1-normal.{png,json}` (`10w4d`), `cbc-mock-02-tcn2-borderline-unitmix.{png,json}` (`24w2d`, trộn đơn vị `g/L` vs `g/dL`), `cbc-mock-03-tcn3-microcytic-plt.{png,json}` (`33w1d`, `MCV/MCH` thấp + `PLT` giảm nhẹ). |
-| Xử lý những bước gì | Dựng HTML phiếu bệnh viện gắn banner/watermark rõ ràng `"MẪU GIẢ LẬP (SYNTHETIC) — KHÔNG PHẢI PHIẾU XÉT NGHIỆM THẬT"`, kết xuất PNG độ phân giải cao bằng trình duyệt headless, và đối chiếu khớp 100% giá trị, đơn vị, khoảng tham chiếu và tuổi thai sang từng file JSON. |
-| Số dòng / số đoạn | 3 ảnh PNG + 3 JSON đáp án (mỗi phiếu phủ đủ 8 chỉ số `RBC, HGB, HCT, MCV, MCH, WBC, NEUT_abs, PLT` = 24 dòng chỉ số giả lập), kèm 1 file mẫu gốc `data/cbc-demo-input.json` (3 chỉ số). |
-| Phiên bản / ngày lấy | v1.0 · 27/11/2026. |
+| Từ đâu | Nhóm tự sinh (`synthetic`) trong `starter-repo/data/` tương thích cấu trúc `data/cbc-demo-input.json` và danh mục `SUPPORTED_ANALYTES` (`codebase/references.py`): `cbc-mock-01-tcn1-normal.{png,json}` (`10w4d`), `cbc-mock-02-tcn2-borderline-unitmix.{png,json}` (`24w2d`, trộn đơn vị `g/L` vs `g/dL`), `cbc-mock-03-tcn3-microcytic-plt.{png,json}` (`33w1d`, `MCV/MCH` thấp + `PLT` giảm nhẹ). |
+| Xử lý những bước gì | Dựng HTML phiếu bệnh viện gắn banner/watermark rõ ràng `"MẪU GIẢ LẬP (SYNTHETIC) — KHÔNG PHẢI PHIẾU XÉT NGHIỆM THẬT"`, kết xuất PNG độ phân giải cao (`2160×1880` px) bằng trình duyệt headless, và đối chiếu khớp 100% giá trị, đơn vị, khoảng tham chiếu và tuổi thai sang từng file JSON. |
+| Số dòng / số đoạn | 3 ảnh PNG + 3 JSON đáp án (mỗi phiếu phủ đủ 8 chỉ số hỗ trợ giải thích `RBC, HGB, HCT, MCV, MCH, MCHC, WBC, PLT` = 24 dòng chỉ số giả lập), kèm `data/cbc-demo-input.json` (3 chỉ số) và `data/full-panel-demo.json` (24 chỉ số danh mục nền). |
+| Phiên bản / ngày lấy | v1.1 · 27/11/2026 (đã đồng bộ 8 mã chuẩn `SUPPORTED_ANALYTES` trên `main`). |
 | Nhãn | `synthetic` (dữ liệu giả lập 100%, không phải phiếu bệnh nhân thật). |
-| Giới hạn | **Data `synthetic` (nhóm tự sinh):** Sinh tất định từ 3 kịch bản lâm sàng cố định (không dùng ngẫu nhiên; thông số tham chiếu lấy từ bảng *Pham et al. 2023* và ngưỡng WHO 2024); người kiểm: Đào Ngọc Hân (N1); số dòng đã kiểm tay & script: 24/24 dòng chỉ số trên 3 cặp phiếu (khớp 100% PNG ↔ JSON). Data tự dựng **không phải bằng chứng pain**. **Lưu ý đồng bộ N2/N4:** `codebase/tools.py` và `spec.md §4` hiện chỉ kiểm tra 3 chỉ số (`HGB`, `WBC`, `PLT`), trong khi 3 bộ phiếu giả lập phủ đủ 8 chỉ số theo phạm vi đề tài (`RBC, HGB, HCT, MCV, MCH, WBC, NEUT_abs, PLT`) — N2 có thể lọc tập con 3 chỉ số cho bản CP2 hoặc mở rộng `tools.py` lên 8 chỉ số. |
+| Giới hạn | **Data `synthetic` (nhóm tự sinh):** Sinh tất định từ 3 kịch bản lâm sàng cố định (không dùng ngẫu nhiên; thông số sinh học nhất quán `MCV ≈ HCT×10/RBC`, `MCH ≈ HGB×10/RBC`, `MCHC ≈ HGB×100/HCT` và đối chiếu bảng *Pham et al. 2023* / WHO 2024); người kiểm: Đào Ngọc Hân (N1); số dòng đã kiểm tay & script: 24/24 dòng chỉ số trên 3 cặp phiếu (khớp 100% PNG ↔ JSON và chạy thông `codebase.agent.answer`). Data tự dựng **không phải bằng chứng pain**. |
 
 ## Quy tắc ẩn danh & Không PII (Áp dụng toàn bộ dự án)
 - **Tuyệt đối không thu thập hoặc lưu trong repo:** ảnh chụp phiếu xét nghiệm thật, họ tên, SĐT, email, CCCD, mã bệnh nhân, tên phòng khám gắn danh tính cá nhân.

diff --git a/starter-repo/evidence/hypothesis.md b/starter-repo/evidence/hypothesis.md
@@ -5,7 +5,7 @@
 
 - Ngày giờ viết: 2026-11-27 13:15 (GMT+7)
 - Người dùng chính (một vai cụ thể): Thai phụ Việt Nam trưởng thành (15–65 tuổi, mang thai ở tam cá nguyệt 1, 2 hoặc 3) tự đọc phiếu kết quả 8 chỉ số tổng phân tích tế bào máu (CBC) trước hoặc sau buổi khám thai định kỳ.
-- **Mình nghĩ:** Thai phụ Việt Nam ở tam cá nguyệt 1–3 gặp khó khi tự đọc phiếu kết quả 8 chỉ số CBC (`RBC`, `HGB`, `HCT`, `MCV`, `MCH`, `WBC`, `NEUT_abs`, `PLT`) vì nhiều phòng xét nghiệm in khoảng tham chiếu mặc định của người trưởng thành không mang thai (như `HGB < 12.0 g/dL`, `WBC 4.0–10.0 G/L`) và khác biệt đơn vị đo (`g/L` so với `g/dL`, `%` so với `L/L`), khiến các thay đổi sinh lý bình thường trong thai kỳ bị đánh dấu thấp/cao bất thường; hậu quả là thai phụ hoang mang, tốn thời gian tra cứu rời rạc (ước tính 10–20 phút mỗi lần) và có nguy cơ tự bổ sung viên sắt hoặc không chuẩn bị được câu hỏi đúng trọng tâm cho bác sĩ sản khoa.
-- **Có thể còn cách giải thích khác:** (1) Vướng mắc chính nằm ở thuật ngữ viết tắt tiếng Anh (`MCV`, `MCH`, `NEUT#`, `PLT`) và khác biệt đơn vị giữa các phòng xét nghiệm chứ không phải do khoảng tham chiếu thai kỳ; (2) Thai phụ đã được bác sĩ giải thích đầy đủ ngay tại phòng khám hoặc chỉ nhìn dấu `H`/`L` lướt qua nên không thấy bức xúc đáng kể khi về nhà.
+- **Mình nghĩ:** Thai phụ Việt Nam ở tam cá nguyệt 1–3 gặp khó khi tự đọc phiếu kết quả 8 chỉ số CBC (`HGB`, `RBC`, `HCT`, `MCV`, `MCH`, `MCHC`, `WBC`, `PLT`) vì nhiều phòng xét nghiệm in khoảng tham chiếu mặc định của người trưởng thành không mang thai (như `HGB < 12.0 g/dL`, `WBC 4.0–10.0 × 10^9/L`) và khác biệt đơn vị đo (`g/L` so với `g/dL`, `%` so với `L/L`), khiến các thay đổi sinh lý bình thường trong thai kỳ bị đánh dấu thấp/cao bất thường; hậu quả là thai phụ hoang mang, tốn thời gian tra cứu rời rạc (ước tính 10–20 phút mỗi lần) và có nguy cơ tự bổ sung viên sắt hoặc không chuẩn bị được câu hỏi đúng trọng tâm cho bác sĩ sản khoa.
+- **Có thể còn cách giải thích khác:** (1) Vướng mắc chính nằm ở thuật ngữ viết tắt tiếng Anh (`MCV`, `MCH`, `MCHC`, `PLT`) và khác biệt đơn vị giữa các phòng xét nghiệm chứ không phải do khoảng tham chiếu thai kỳ; (2) Thai phụ đã được bác sĩ giải thích đầy đủ ngay tại phòng khám hoặc chỉ nhìn dấu `H`/`L` lướt qua nên không thấy bức xúc đáng kể khi về nhà.
 - **Mình đúng nếu thấy:** (1) Khi kiểm tra trên dữ liệu CBC thai phụ khỏe mạnh tại Bệnh viện Hùng Vương (*Pham et al., 2023*, `N = 837` panel CBC đủ), có `≥ 30%` thai phụ khỏe mạnh rơi dưới ngưỡng thiếu máu nữ không mang thai (`HGB < 12.0 g/dL`) và `≥ 5%` khác biệt giữa khoảng tham chiếu thống kê (2.5th–97.5th) với ngưỡng lâm sàng WHO 2024; (2) Khi phỏng vấn `≥ 3` thai phụ ngoài nhóm từng tự đọc phiếu CBC trong 1 tháng qua, có `≥ 2/3` người kể được ít nhất một lần khựng lại hoặc lo lắng vì dấu bất thường / ký hiệu khó hiểu trên phiếu và tốn `≥ 5` phút tự tra cứu hoặc hỏi thêm.
 - **Nguồn sẽ dùng** (≥1 nguồn đạt ngưỡng, guide 1.2): [x] đào data · [x] phỏng vấn ≥3 · [ ] khảo sát ≥20 — nguồn chính: đào dữ liệu nghiên cứu 867 bản ghi thai kỳ BV Hùng Vương (*Pham et al., 2023*, `evidence/data-mining.md`) · nguồn để kiểm lại: phỏng vấn `≥ 3` thai phụ ngoài nhóm từng đọc phiếu CBC trong 1 tháng qua (`evidence/interviews/P1.md`–`P3.md`).

diff --git a/starter-repo/evidence/data-mining.md b/starter-repo/evidence/data-mining.md
@@ -11,7 +11,7 @@
   1. Lọc tập các bản ghi có panel CBC hoàn chỉnh (`cbc_panel_complete == 1`) trên sheet `Du_lieu` (loại 30 dòng thiếu CBC, không tự điền `0` vào ô trống).
   2. Đếm số thai phụ khỏe mạnh có `HGB < 12.0 g/dL` (`< 120 g/L`) — tương ứng tỷ lệ bị gắn cờ "thiếu máu" sai nếu phiếu phòng xét nghiệm áp dụng ngưỡng nữ trưởng thành không mang thai của WHO 2024.
   3. Đếm số thai phụ khỏe mạnh có `HGB` dưới ngưỡng sàng lọc thiếu máu thai kỳ WHO 2024 (`< 11.0 g/dL` ở TCN1/TCN3; `< 10.5 g/dL` ở TCN2), tách theo từng tam cá nguyệt.
-  4. Đếm số dòng bị loại ngoại lai (`ri_excluded_analytes`, Dixon `D/R >= 1/3`) trên 8 chỉ số CBC được chọn (`RBC`, `HGB`, `HCT`, `MCV`, `MCH`, `WBC`, `NEUT_abs`, `PLT`).
+  4. Đếm số dòng bị loại ngoại lai (`ri_excluded_analytes`, Dixon `D/R >= 1/3`) trên 8 chỉ số CBC được chọn (`HGB`, `RBC`, `HCT`, `MCV`, `MCH`, `MCHC`, `WBC`, `PLT`).
 - **Mẫu số là gì:** **`N = 837` panel CBC hoàn chỉnh** (gồm `287` TCN1 + `273` TCN2 + `277` TCN3; tách riêng khỏi `867` tổng bản ghi vì `30` dòng chỉ có dữ liệu đông máu/thiếu CBC).
 - Script / công thức (dùng để tái lập khi có tệp `.xlsx` ngoài repo):
 
